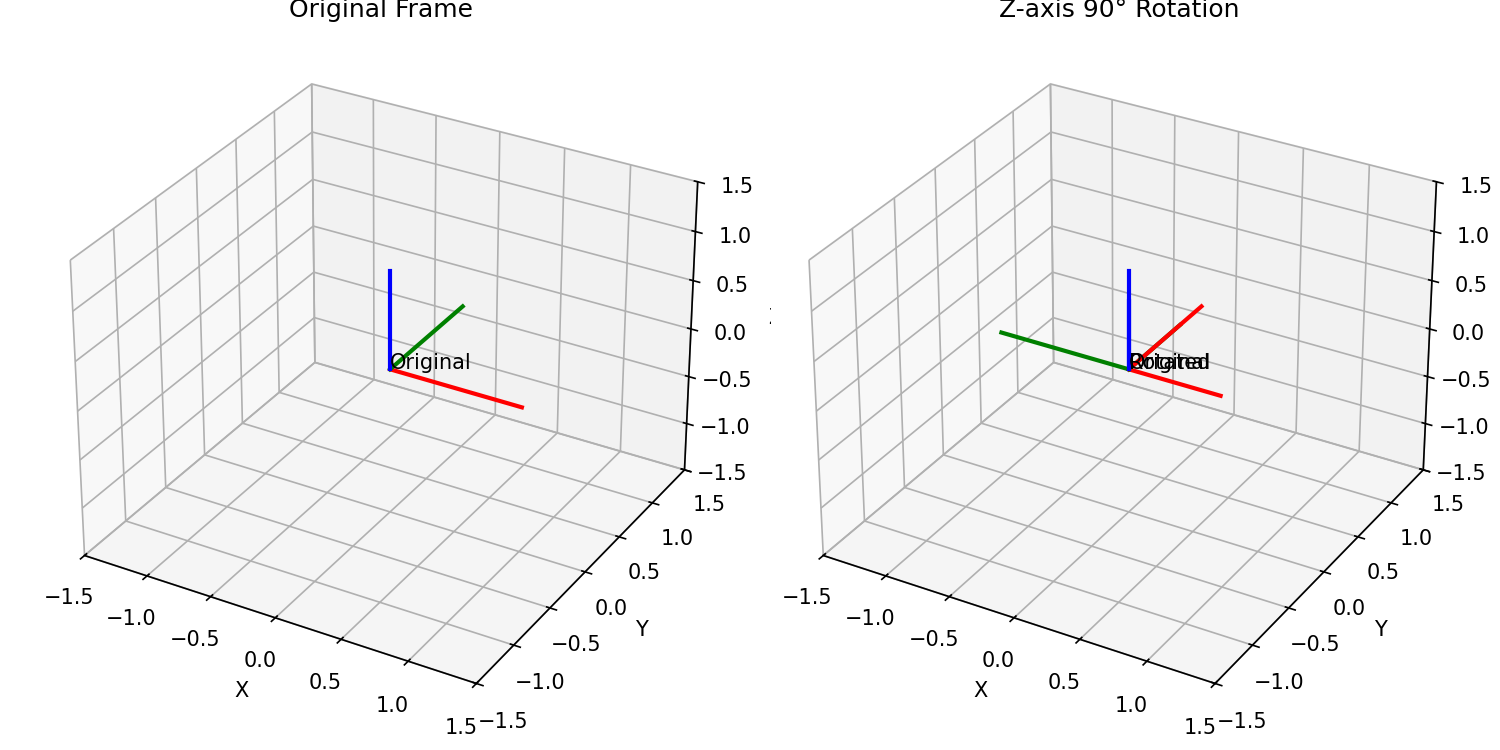
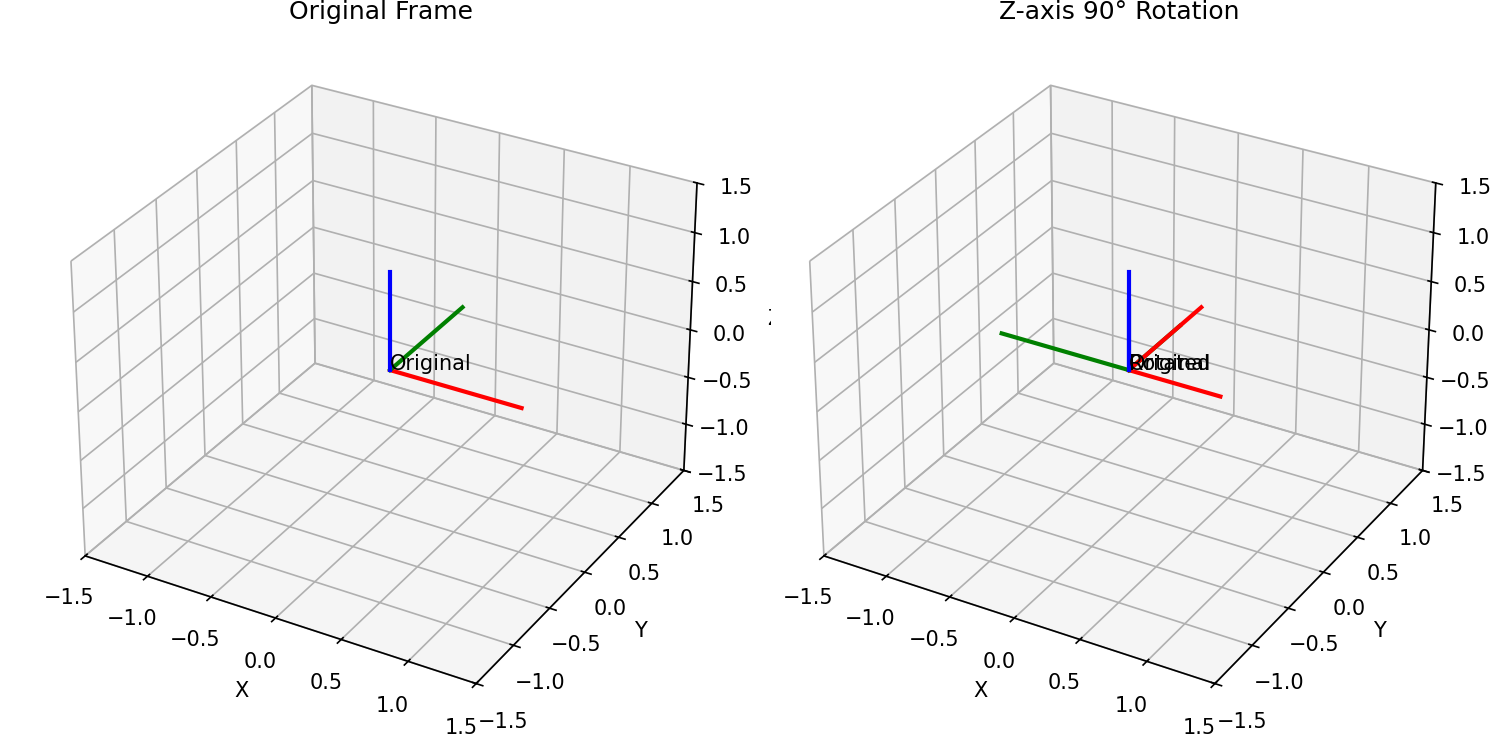
Lie 군/대수 매핑 함수 주석 개선
- log_so3() 함수의 trace 계산 설명 추가
  - Rodrigues 공식 tr(R) = 1 + 2cos(θ) 명시
  - 회전 행렬 대각합으로 회전 각도 추출 과정 설명
- exp_se3() 함수의 파라미터 문서화 개선
  - 그리스 문자 표기(ρ, φ) 및 의미 추가
  - 실제 평행이동 t = J @ ρ 임을 명확히 설명
- 회전 시각화 이미지 업데이트

diff --git a/Studies/Phase 1/week6/lie_basics.py b/Studies/Phase 1/week6/lie_basics.py
@@ -280,9 +280,9 @@ def log_so3(R):
     Returns:
         omega: 3D 벡터 (회전축 × 각도)
     """
-    # 회전 각도 계산
-    trace = np.trace(R)
-    cos_theta = (trace - 1) / 2
+    # 회전 각도 계산 (tr(R) = 1 + 2cos(θ) 공식 사용)
+    trace = np.trace(R)  # 대각합: R[0,0] + R[1,1] + R[2,2]로 회전 각도 θ를 추출
+    cos_theta = (trace - 1) / 2  # tr(R) = 1 + 2cos(θ) → cos(θ) 계산
     cos_theta = np.clip(cos_theta, -1, 1)  # 수치 안정성
     theta = np.arccos(cos_theta)
     
@@ -457,8 +457,8 @@ def exp_se3(xi):
     Returns:
         T: 4×4 변환 행렬
     """
-    rho = xi[:3]  # 평행이동 관련
-    phi = xi[3:]  # 회전
+    rho = xi[:3]  # ρ (rho, 그리스 문자): 평행이동 파라미터 (실제 t는 J @ rho로 계산)
+    phi = xi[3:]  # φ (phi, 그리스 문자): 회전 파라미터 (R = exp(phi))
     
     # 1. 회전 부분
     R = exp_so3(phi)
